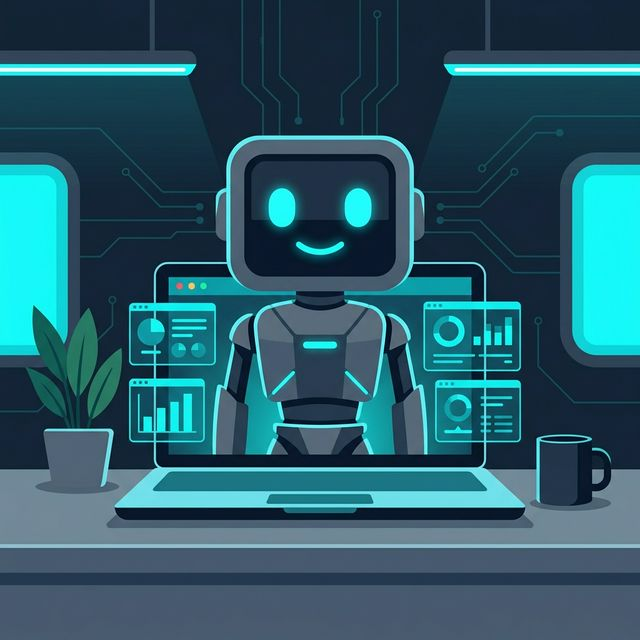
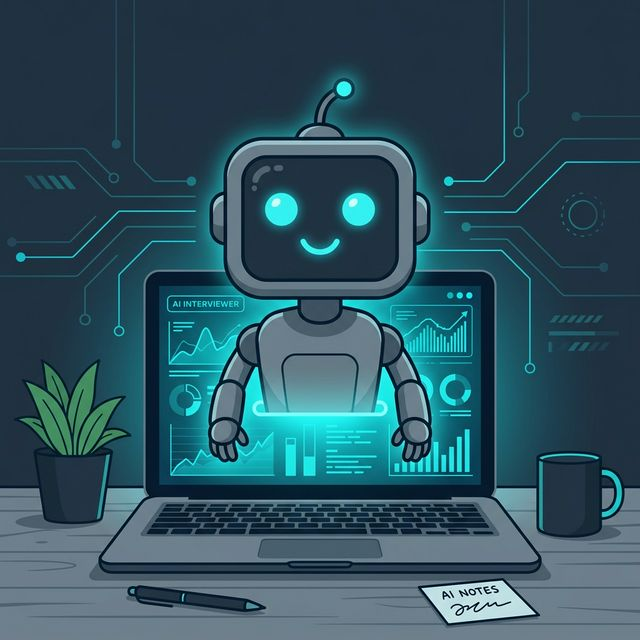
Update friendly AI interviewer illustration with a cute antenna emerging from laptop screen

diff --git a/index.html b/index.html
@@ -139,6 +139,6 @@
   <script src="src/llm.js"></script>
   <script src="src/audio.js"></script>
   <!-- Core JavaScript Logic -->
-  <script src="app.js?v=9"></script>
+  <script src="app.js?v=11"></script>
 </body>
 </html>
